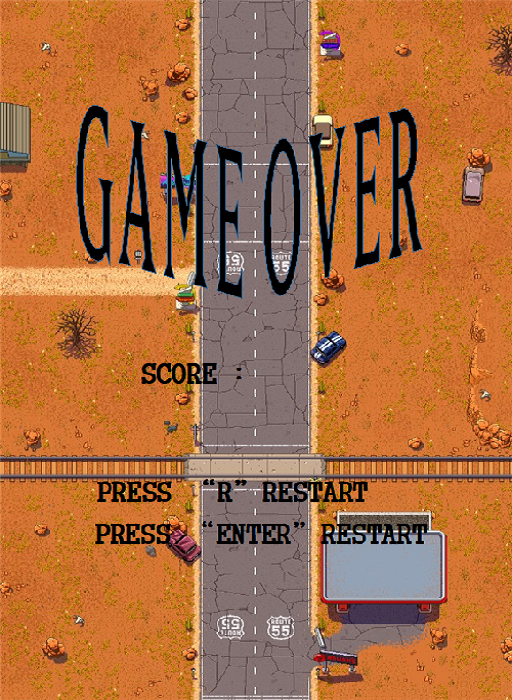
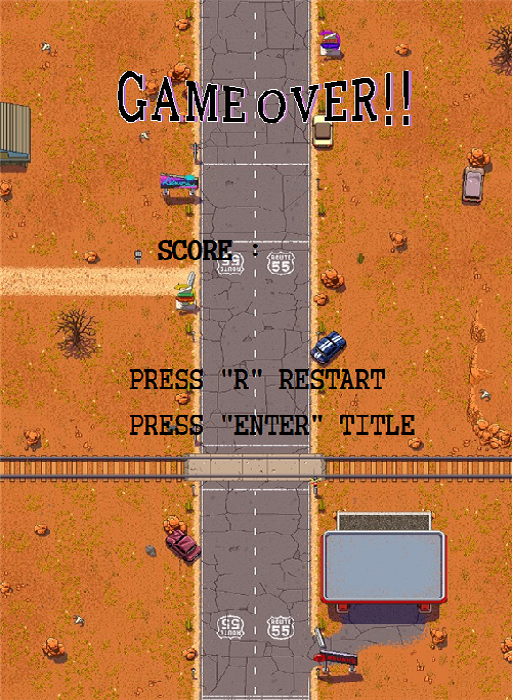
게임오버화면 수정

diff --git a/flying_Airplane_main.py b/flying_Airplane_main.py
@@ -274,7 +274,7 @@ def runGame():
             break
 
         # 적이 화면을 넘어가면 재생성하는 if문
-        enemy_y += 3
+        enemy_y += 6
         if enemy_y >= height:
             # 적이 파괴되지 않고 지나가면 카운트 1씩 증가
             enemy_passed += 1
@@ -410,7 +410,7 @@ def gameoverScore(count):  # 게임오버시 스코어를 표현하기위한 함
     global gamepad
     font = pygame.font.SysFont(None, 40)
     text = font.render(" " + str(count), True, [0,0,255])
-    gamepad.blit(text, (250, 361))
+    gamepad.blit(text, (265, 238))
 
 def GameOver():
     global GOBG
